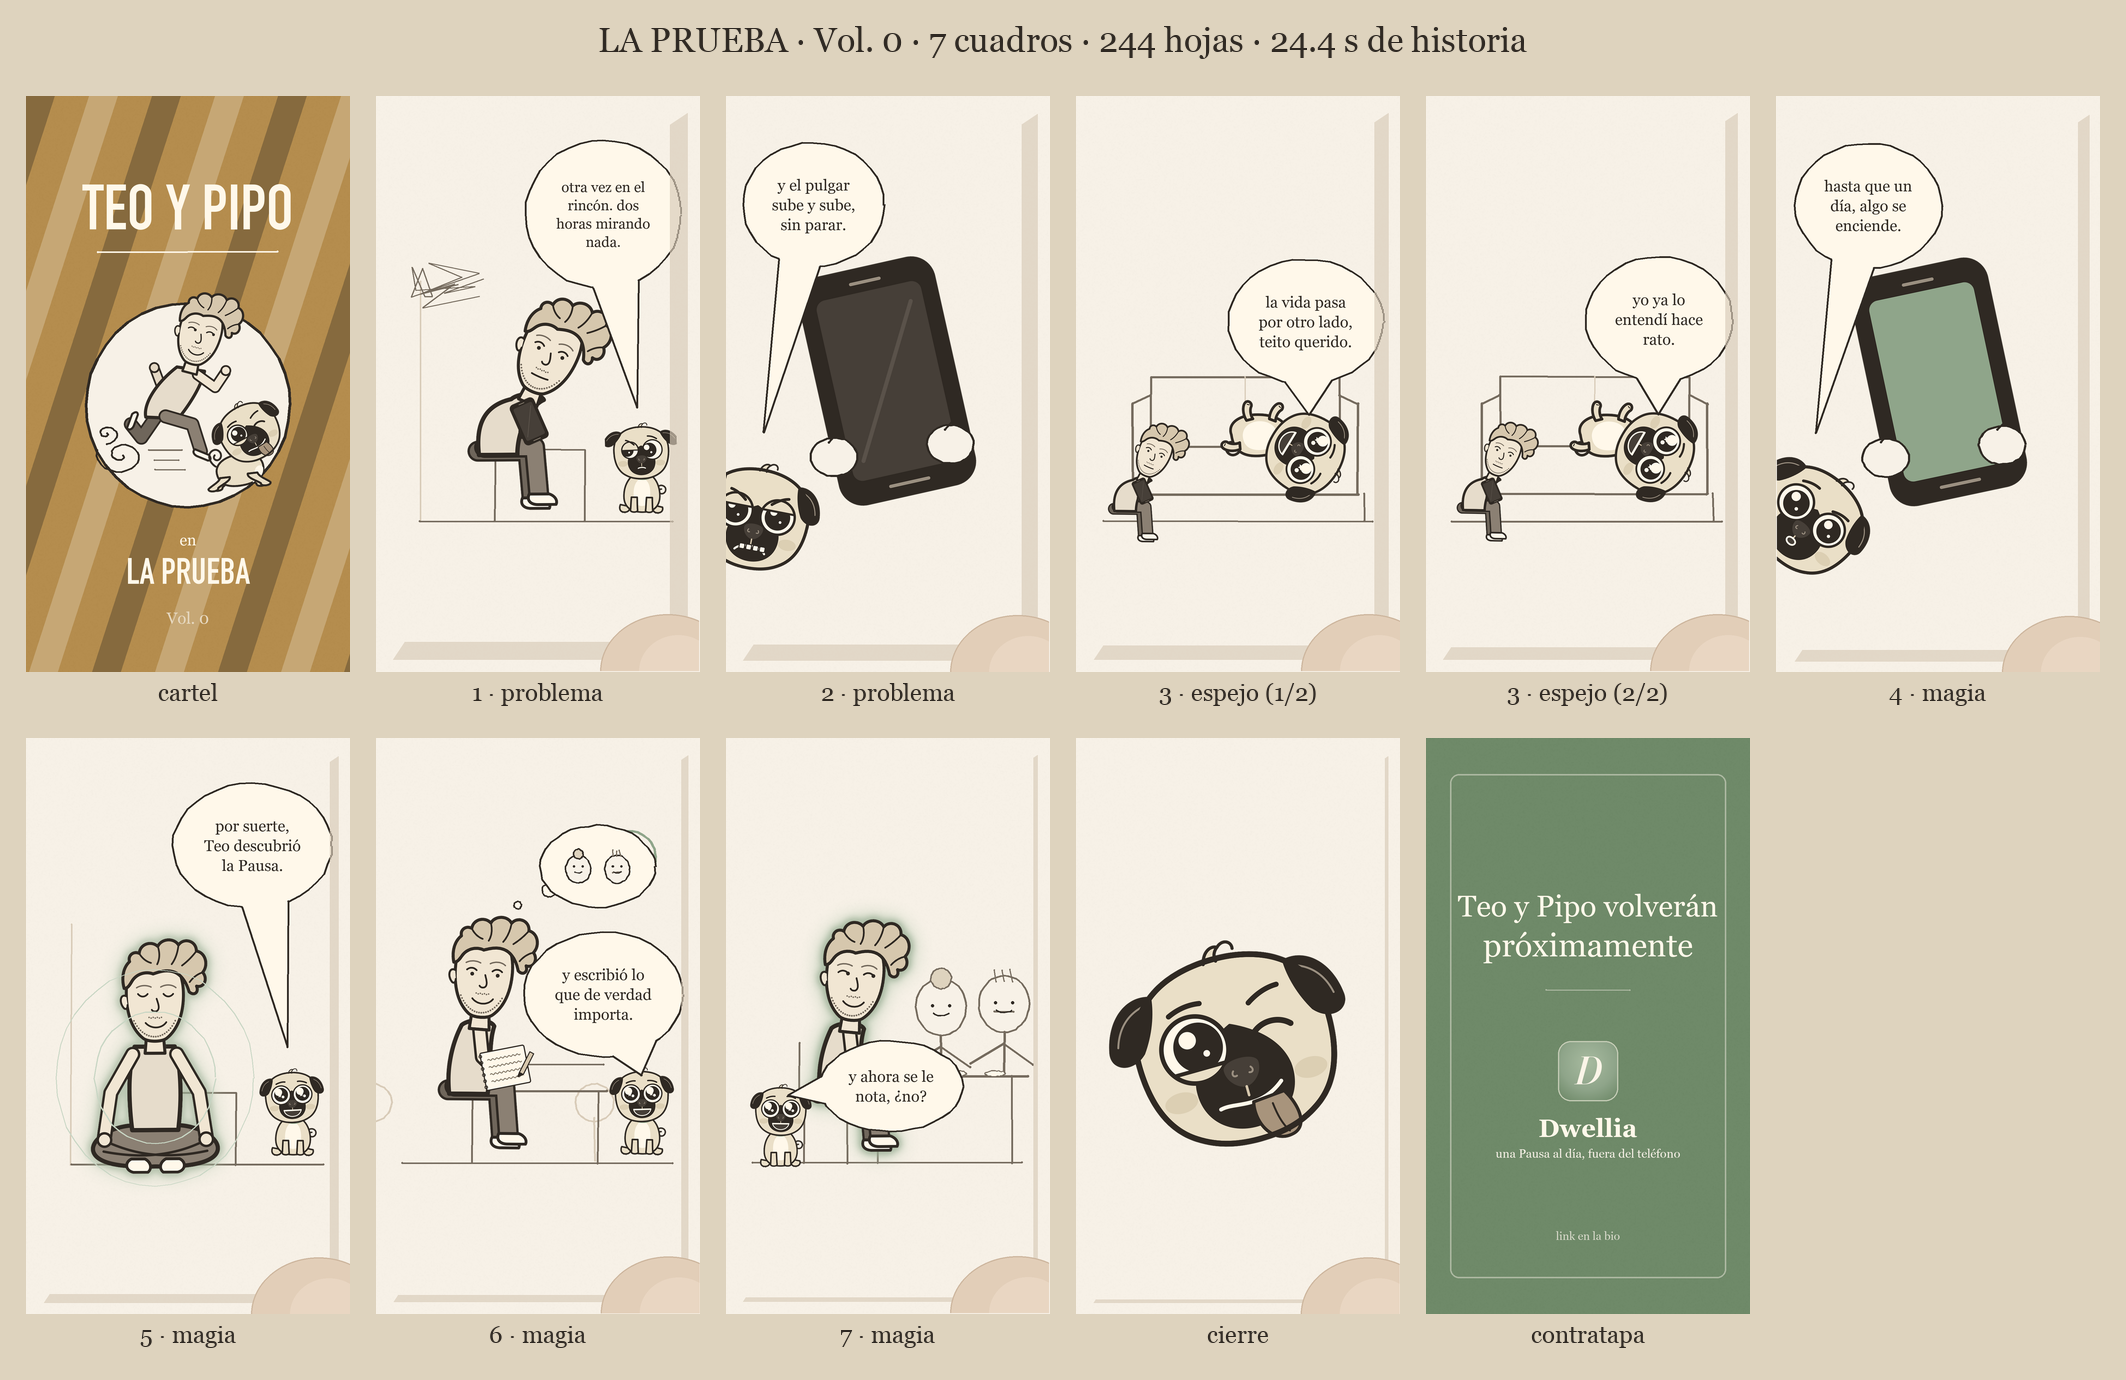
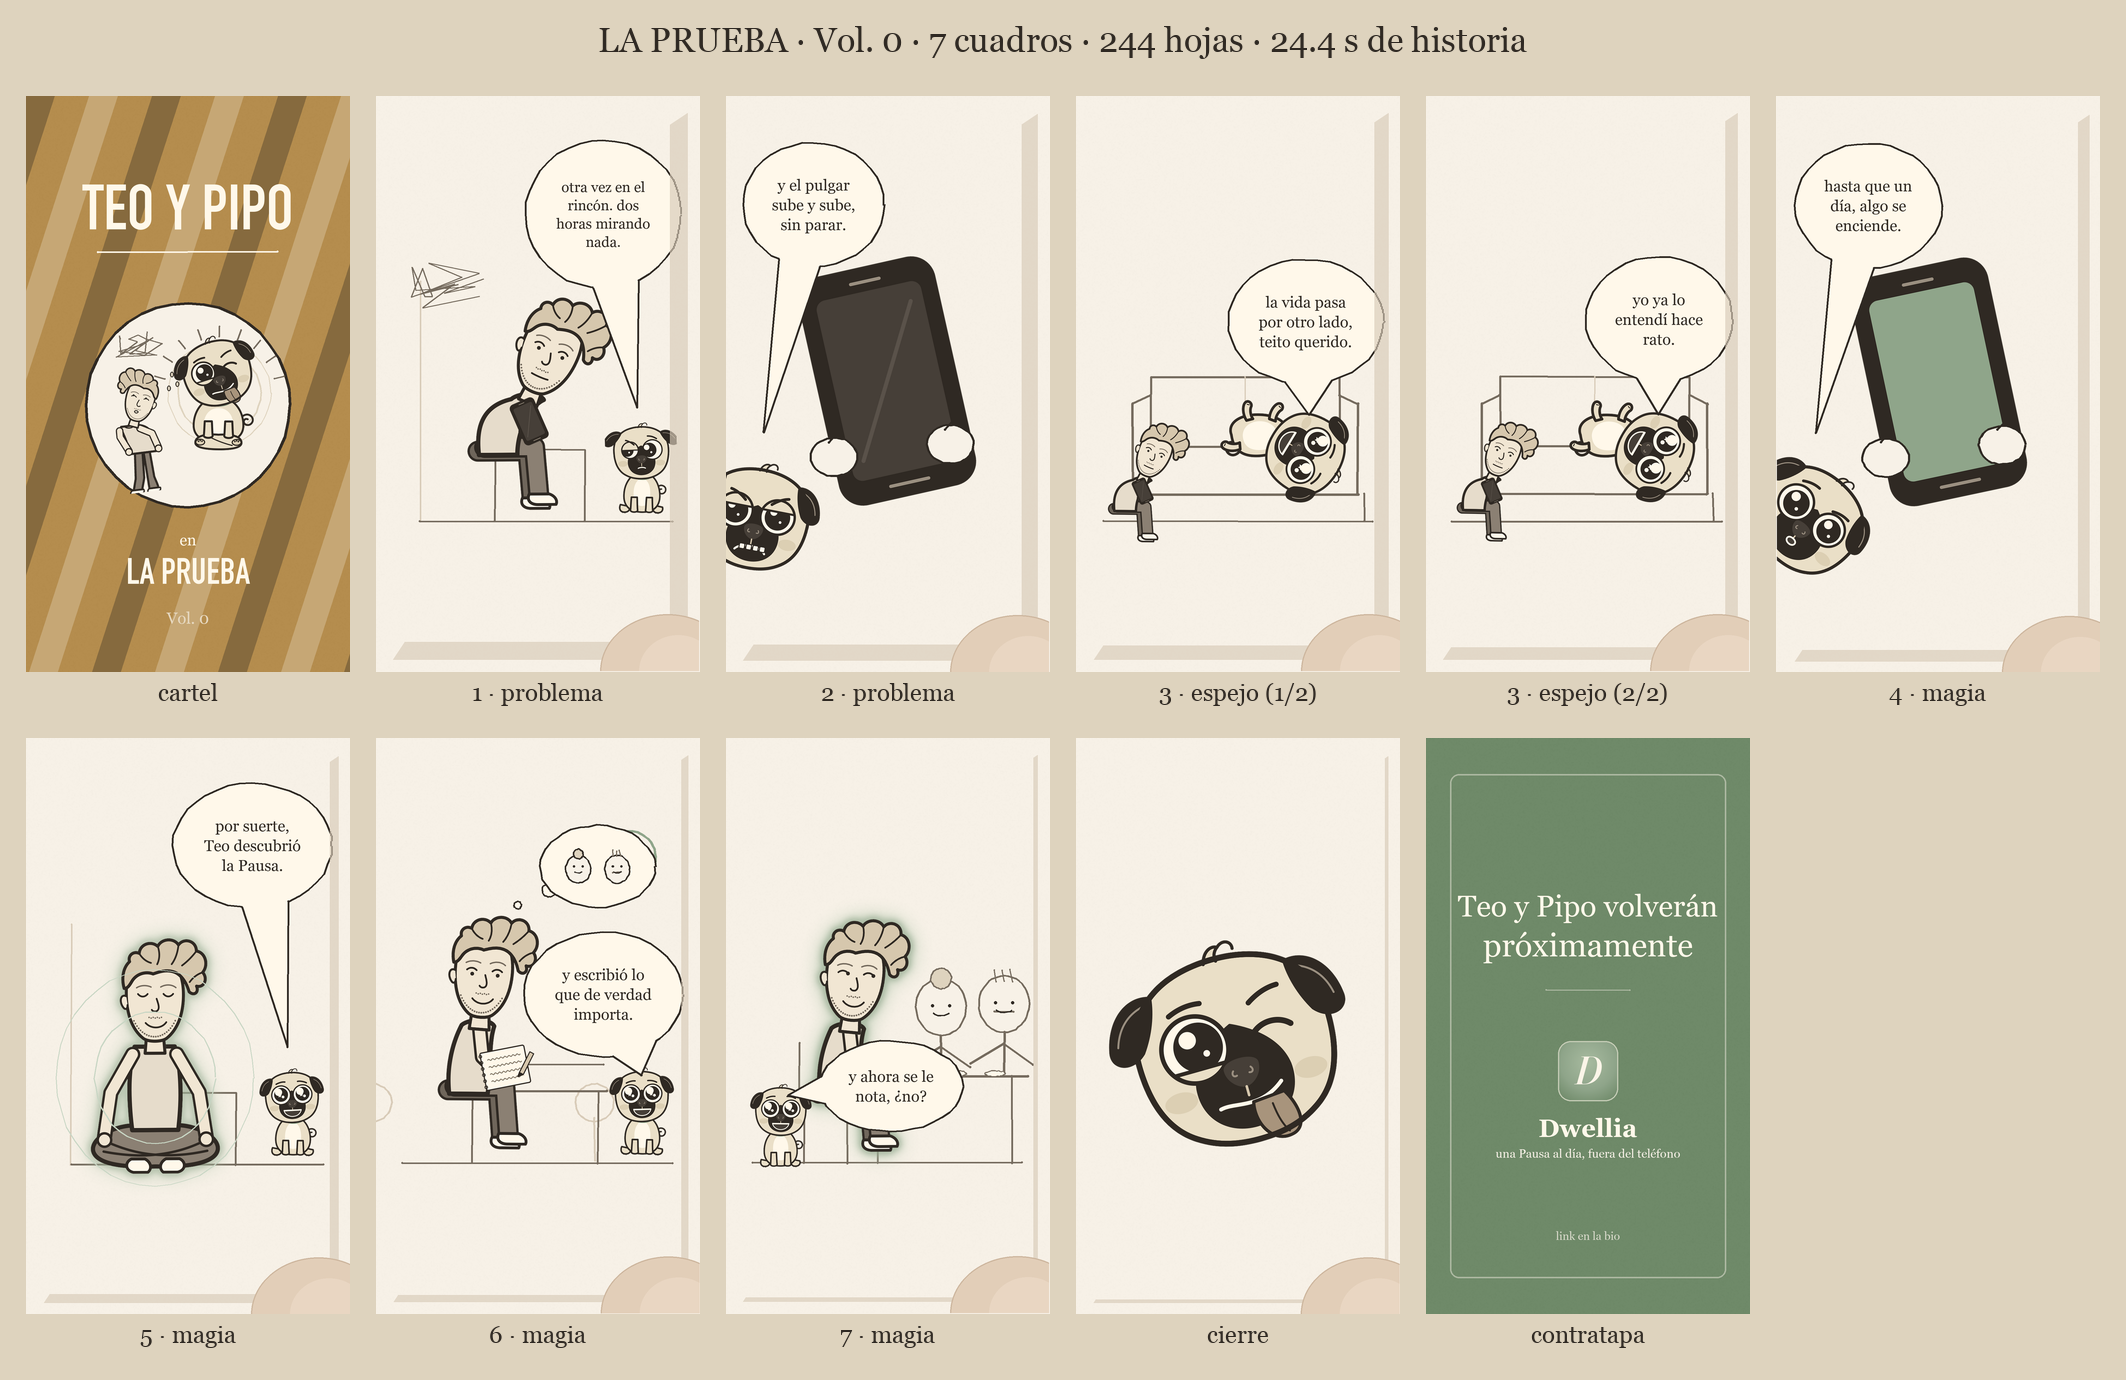
WS34 · D1.2 · card 3 · B1 v2 (Tomás): la viñeta del cartel = Pipo ILUMINADO en flor de loto (cuerpo 'buda' nuevo, halo y rayitos) y Teo el desastre mirándolo hacia arriba desconcertado (encorvado espejado, ruido mental, sudor) · la versión Tintín queda como alternativa 'cartel: {vineta: tintin}' · m

Changed region(s): [[0.031, 0.2181, 0.1552, 0.3739]]

diff --git a/Flipbook/motor/libro.py b/Flipbook/motor/libro.py
@@ -811,8 +811,41 @@ def _remolino(d, x, y, rng, s=1.0, vueltas=1.6, color=None):
     R.stroke(d, pts, rng, width=6, color=color or R.UMBER, amp=1.4)
 
 
-def imagen_cartel(im, m, rng, cx, cy, r):
-    """B1 (WS34): la viñeta fija del cartel a lo Tintín. Teo corre inclinado con los brazos
+def imagen_cartel_iluminado(im, m, rng, cx, cy, r):
+    """B1 (WS34, versión de Tomás): Pipo ILUMINADO, en flor de loto (cuerpo `buda`, cara
+    alegría sarcástica), flotando arriba a la derecha con un halo crema; Teo hecho un
+    desastre abajo a la izquierda (encorvado, mirando hacia arriba con la boca abierta) con
+    la nube de garabatos sobre la cabeza. La premisa de la serie en un vistazo. El círculo,
+    el centro y el radio no cambian. La versión a lo Tintín (cuerpos `corre`) queda en el motor."""
+    d = ImageDraw.Draw(im)
+    R.circle(d, cx, cy, r, rng, width=9, color=R.UMBER, fill=R.CREAM)
+    # Pipo flota arriba a la derecha: el halo del iluminado (dos aros de línea) y rayitos
+    px, py = cx + 105, cy - 40
+    for rr, w in ((138, 5), (172, 3)):
+        R.circle(d, px, py, rr, rng, width=w, color=R.SAND, amp=2.5)
+    for k in range(9):
+        a = -math.pi / 2 + (k - 4) * 0.33
+        x0, y0 = px + 188 * math.cos(a), py + 188 * math.sin(a)
+        x1, y1 = px + 222 * math.cos(a), py + 222 * math.sin(a)
+        R.stroke(d, [(x0, y0), (x1, y1)], rng, width=5, color=R.TAUPE, amp=1.0)
+    m.pegar(im, "pipo", "buda", CARA_CARTEL_PIPO, px, py + 70, escala=0.74, rng=rng)
+    # Teo, el desastre: abajo a la izquierda, encorvado, mirando hacia arriba a Pipo, con el
+    # ruido mental encima y unas gotitas de sudor
+    d = ImageDraw.Draw(im)
+    tx, ty = cx - 150, cy + 132
+    # espejado: su tres cuartos mira a la derecha, hacia Pipo; rot positiva = se echa atrás
+    m.pegar(im, "teo", "encorvado", CARA_CARTEL_TEO, tx, ty, escala=0.8, rng=rng, rot=6, espejo=True)
+    d = ImageDraw.Draw(im)
+    R.scribble(d, tx - 10, ty - 335, rng, r=80, color=R.TAUPE, width=4)
+    for dx, dy in ((96, -232), (114, -200), (86, -186)):
+        d.ellipse((tx + dx - 6, ty + dy - 11, tx + dx + 6, ty + dy + 7), fill=R.SAND, outline=R.UMBER, width=3)
+
+
+CARA_CARTEL_PIPO, CARA_CARTEL_TEO = "cara_alegria_sarcastica", "cara_arriba_fruncida"   # el "¿eh?"
+
+
+def imagen_cartel_tintin(im, m, rng, cx, cy, r):
+    """La alternativa a lo Tintín (B1, primera versión; `cartel: {vineta: tintin}`). Teo corre inclinado con los brazos
     bombeando (cuerpo `corre`, cara costado_sonrisa) y Pipo galopa ADELANTE (cuerpo `corre`,
     alegría sarcástica), los dos rompiendo apenas el borde del círculo; atrás, los remolinos de
     velocidad y unas líneas de polvo. El círculo, el centro y el radio no cambian."""
@@ -825,6 +858,18 @@ def imagen_cartel(im, m, rng, cx, cy, r):
         R.stroke(d, [(cx + dx - largo, cy + dy), (cx + dx, cy + dy)], rng, width=5, color=R.TAUPE, amp=1.0)
     m.pegar(im, "teo", "corre", "cara_costado_sonrisa", cx - 70, cy - 10, escala=1.18, rng=rng)
     m.pegar(im, "pipo", "corre", "cara_alegria_sarcastica", cx + 165, cy + 200, escala=0.74, rng=rng, rot=-6)
+
+
+VINETAS = {"iluminado": imagen_cartel_iluminado, "tintin": imagen_cartel_tintin}
+
+
+def imagen_cartel(im, m, rng, cx, cy, r, vineta="iluminado"):
+    """La viñeta fija del cartel. `iluminado` (Tomás, WS34) es la de la serie; `tintin` queda
+    como alternativa (`cartel: {vineta: tintin}` en el guion)."""
+    fn = VINETAS.get(vineta)
+    if not fn:
+        raise SystemExit("viñeta desconocida: %s (hay: %s)" % (vineta, ", ".join(VINETAS)))
+    fn(im, m, rng, cx, cy, r)
 
 
 def _formas(d, rng, tinta, forma, claro, oscuro):
@@ -858,7 +903,7 @@ def cartel(g, m, i, n, rng):
     f = font_que_entra(d, "TEO Y PIPO", 900, 210)
     d.text((R.W / 2, 400), "TEO Y PIPO", fill=R.IVORY, font=f, anchor="mm")
     R.stroke(d, [(240, 520), (840, 520)], rng, width=6, color=R.IVORY, amp=1.5)
-    imagen_cartel(im, m, rng, R.W / 2, 1030, 340)
+    imagen_cartel(im, m, rng, R.W / 2, 1030, 340, vineta=c.get("vineta", "iluminado"))
     d = ImageDraw.Draw(im)
     titulo = str(g.get("titulo", "SIN TÍTULO")).upper()
     d.text((R.W / 2, 1480), "en", fill=R.IVORY, font=R.font(52), anchor="mm")

diff --git a/Flipbook/motor/partes.py b/Flipbook/motor/partes.py
@@ -351,9 +351,35 @@ def pipo_cuerpo_corre():
     p.append(pipo_collar(276, 176, 36, ry=10))
     return svg(p), {"cabeza": [286, 172], "escala": 0.88, "rot": -6, "z_cabeza": "delante"}
 
+def pipo_cuerpo_buda():
+    """Pipo iluminado (B1, WS34): sentado a cámara en flor de loto, la panza redonda y clara,
+    las patas traseras cruzadas adelante como un almohadón bajo con las almohadillas hacia
+    arriba, las delanteras rectas apoyadas en las rodillas. La cabeza va derecha, arriba."""
+    p = []
+    p.append(pipo_cola(288, 240, s=0.9, rot=30))
+    # torso pera, más ancho y bajo que el sentado (está apoyado en el piso)
+    p.append(path("M 200 126 C 266 126, 314 186, 312 258 C 310 306, 268 330, 200 330 "
+                  "C 132 330, 90 306, 88 258 C 86 186, 134 126, 200 126 Z", fill=FAWN))
+    p.append(path("M 200 176 C 246 176, 270 216, 266 262 C 262 296, 236 312, 200 312 "
+                  "C 164 312, 138 296, 134 262 C 130 216, 154 176, 200 176 Z", fill=IVORY, stroke="none", w=0))
+    # las patas traseras cruzadas: un almohadón bajo y ancho con el pliegue del cruce
+    p.append(path("M 96 328 C 100 300, 150 292, 200 296 C 250 292, 300 300, 304 328 "
+                  "C 308 350, 276 362, 200 362 C 124 362, 92 350, 96 328 Z", fill=FAWN))
+    p.append(path("M 150 300 C 178 318, 222 334, 262 344", stroke=UMBER, w=W_SEC))
+    # almohadillas hacia arriba en las dos puntas
+    for cx in (118, 282):
+        p.append(ell(cx, 330, 20, 13, FAWN_SOMBRA, UMBER, W_SEC))
+        p.append(circ(cx - 8, 326, 3.5, UMBER)); p.append(circ(cx, 323, 3.5, UMBER)); p.append(circ(cx + 8, 326, 3.5, UMBER))
+    # patas delanteras rectas, apoyadas sobre las rodillas (el gesto de meditar)
+    p.append(pipo_pata_frente(154, 236, largo=64))
+    p.append(pipo_pata_frente(246, 236, largo=64))
+    p.append(pipo_collar(200, 146, 52))
+    return svg(p), {"cabeza": [200, 146], "escala": 1.0, "rot": 0, "z_cabeza": "delante", "pecho": [200, 240]}
+
 CUERPOS_PIPO = {
     "sentado": pipo_cuerpo_sentado,
     "corre": pipo_cuerpo_corre,
+    "buda": pipo_cuerpo_buda,
     "camina": pipo_cuerpo_camina,
     "panza_arriba": pipo_cuerpo_panza_arriba,
     "plantado": pipo_cuerpo_plantado,

diff --git a/WS/WS34_08-09-2026.md b/WS/WS34_08-09-2026.md
@@ -100,3 +100,19 @@ línea (`_remolino`, espiral que se abre) atrás del talón de Teo y tres línea
 de Pipo. Muestra: `pruebas/cartel_vol00.png`.
 
 **Estado: pendiente de validación de Tomás.**
+
+**Devolución de Tomás sobre la viñeta Tintín: ¿no sería más impactante Pipo como un
+ILUMINADO (pose de Buda meditando) y Teo un desastre, mirando hacia arriba desconcertado?**
+Claude: sí, gana; el cartel es el gancho y el título ya es la sátira: la imagen tiene que
+contar la premisa (el perro ya caminó el camino, el humano no) en un vistazo, y un pug en
+flor de loto con la cara pícara es "iluminado y engreído" = puro Pipo.
+
+**Construido (`imagen_cartel_iluminado`, la de la serie):** Pipo `cuerpo_buda` (nuevo en
+`partes.py`: sentado a cámara, panza clara, las traseras cruzadas como un almohadón con las
+almohadillas hacia arriba, las delanteras rectas sobre las rodillas) con `alegria_sarcastica`,
+flotando arriba a la derecha con dos aros de línea y rayitos de iluminación; Teo `encorvado`
+**espejado** (su tres cuartos mira a la derecha, hacia Pipo) con `arriba_fruncida` (la boquita
+de "¿eh?"; `arriba_abierta` parecía risa), el ruido mental encima y tres gotitas de sudor.
+Tres pasadas: el loto primero parecía un moño, Teo tapaba a Pipo y miraba al lado contrario.
+**La Tintín queda como alternativa** (`imagen_cartel_tintin`, `cartel: {vineta: tintin}`).
+Muestras: `pruebas/cartel_vol00.png` (iluminado) y `pruebas/cartel_vol00_tintin.png`.

diff --git a/Flipbook/REGLAS.md b/Flipbook/REGLAS.md
@@ -142,6 +142,7 @@ titulo: LA PRUEBA               # el título satírico, va en el cartel
 cartel:
   tinta: ocre                   # ocre | ladrillo | azul_cartel (la cuarta tinta, §3)
   formas: diagonales            # diagonales | rayos | circulo | franja | marco
+  vineta: iluminado             # la imagen fija: iluminado (la de la serie) | tintin
 escenas:
   - tipo: problema              # problema | espejo | magia
     fondo: rincon
